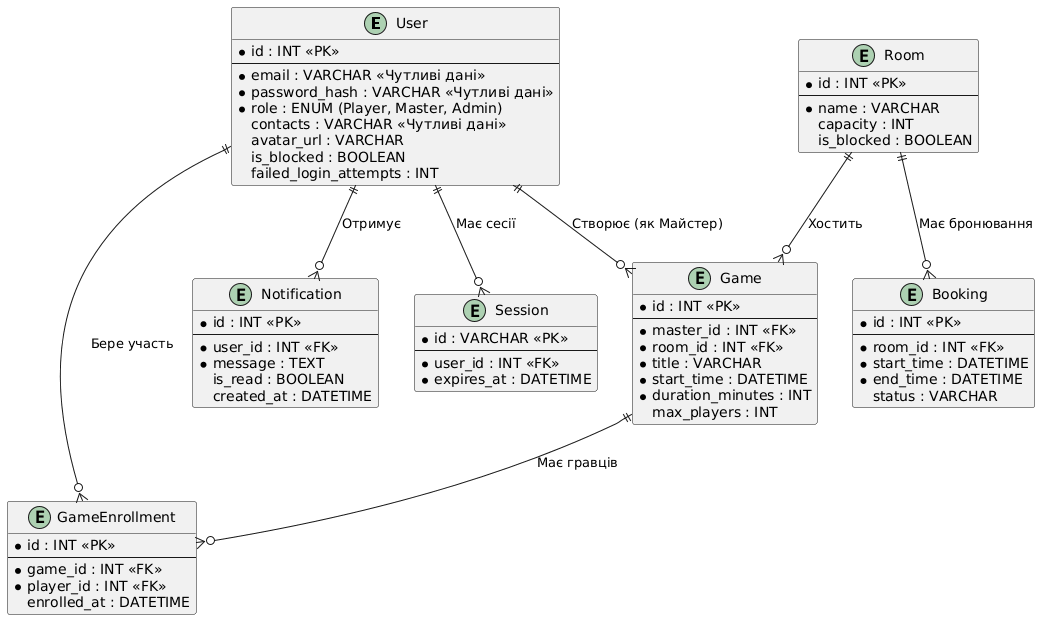
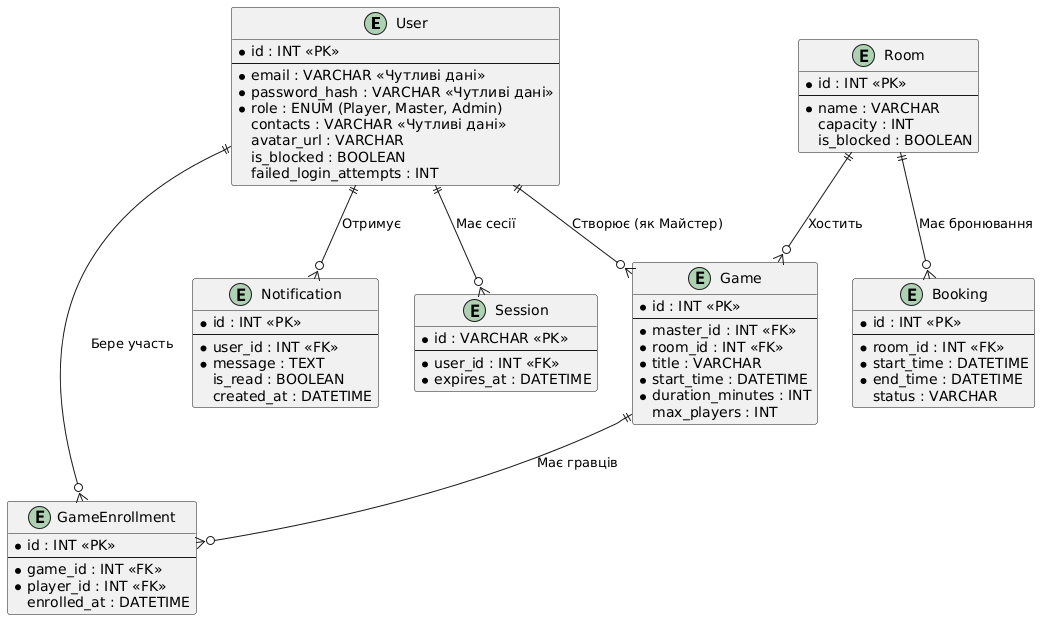
docs:docker + update architecture markdown files and deployment URL for Render

diff --git a/src/api/routes/games.py b/src/api/routes/games.py
@@ -27,6 +27,7 @@ from store import (
     next_game_id,
     sorted_games,
     to_game,
+    db_lock,  # <--- Імпортуємо наш м'ютекс
 )
 
 router = APIRouter(prefix="/api/v1/games", tags=["Games"])
@@ -122,10 +123,14 @@ async def list_games(
 )
 async def create_game(payload: GameCreate, response: Response, user: CurrentUser):
     require_roles(user, UserRole.master, UserRole.owner)
-    ensure_schedule_is_valid(payload, master_id=user.id)
-    record = GameRecord(id=next_game_id(), master_id=user.id, **payload.model_dump())
-    GAMES[record.id] = record
-    ENROLLMENTS[record.id] = []
+
+    # Атомарна перевірка та запис
+    with db_lock:
+        ensure_schedule_is_valid(payload, master_id=user.id)
+        record = GameRecord(id=next_game_id(), master_id=user.id, **payload.model_dump())
+        GAMES[record.id] = record
+        ENROLLMENTS[record.id] = []
+
     response.headers["Location"] = f"/api/v1/games/{record.id}"
     return to_game(record)
 
@@ -151,11 +156,12 @@ async def get_game(game_id: str = GameId):
     responses=error_docs(400, 401, 403, 404, 409),
 )
 async def replace_game(payload: GameUpdate, user: CurrentUser, game_id: str = GameId):
-    record = get_game_or_404(game_id)
-    ensure_can_manage(record, user.id, user.role)
-    ensure_schedule_is_valid(payload, master_id=record.master_id, exclude_game_id=game_id)
-    updated = GameRecord(id=game_id, master_id=record.master_id, **payload.model_dump())
-    GAMES[game_id] = updated
+    with db_lock:
+        record = get_game_or_404(game_id)
+        ensure_can_manage(record, user.id, user.role)
+        ensure_schedule_is_valid(payload, master_id=record.master_id, exclude_game_id=game_id)
+        updated = GameRecord(id=game_id, master_id=record.master_id, **payload.model_dump())
+        GAMES[game_id] = updated
     return to_game(updated)
 
 
@@ -167,16 +173,17 @@ async def replace_game(payload: GameUpdate, user: CurrentUser, game_id: str = Ga
     responses=error_docs(400, 401, 403, 404, 409),
 )
 async def patch_game(payload: GamePatch, user: CurrentUser, game_id: str = GameId):
-    record = get_game_or_404(game_id)
-    ensure_can_manage(record, user.id, user.role)
-    changes = {key: value for key, value in payload.model_dump().items() if value is not None}
-    if not changes:
-        raise ApiError(400, "VALIDATION_ERROR", "Передайте хоча б одне поле для оновлення")
-    base_fields = {key: getattr(record, key) for key in GameBase.model_fields}
-    merged = GameBase(**{**base_fields, **changes})
-    ensure_schedule_is_valid(merged, master_id=record.master_id, exclude_game_id=game_id)
-    updated = GameRecord(id=game_id, master_id=record.master_id, **merged.model_dump())
-    GAMES[game_id] = updated
+    with db_lock:
+        record = get_game_or_404(game_id)
+        ensure_can_manage(record, user.id, user.role)
+        changes = {key: value for key, value in payload.model_dump().items() if value is not None}
+        if not changes:
+            raise ApiError(400, "VALIDATION_ERROR", "Передайте хоча б одне поле для оновлення")
+        base_fields = {key: getattr(record, key) for key in GameBase.model_fields}
+        merged = GameBase(**{**base_fields, **changes})
+        ensure_schedule_is_valid(merged, master_id=record.master_id, exclude_game_id=game_id)
+        updated = GameRecord(id=game_id, master_id=record.master_id, **merged.model_dump())
+        GAMES[game_id] = updated
     return to_game(updated)
 
 
@@ -228,14 +235,16 @@ async def list_players(user: CurrentUser, game_id: str = GameId):
     responses=error_docs(400, 401, 404, 409),
 )
 async def enroll_player(response: Response, user: CurrentUser, game_id: str = GameId):
-    record = get_game_or_404(game_id)
-    players = ENROLLMENTS.setdefault(game_id, [])
-    if any(p.user_id == user.id for p in players):
-        raise ApiError(409, "ALREADY_ENROLLED", "Ви вже записані на цю гру")
-    if len(players) >= record.max_players:
-        raise ApiError(409, "GAME_FULL", "Вільних місць немає")
-    player = Player(user_id=user.id, name=user.name, enrolled_at=datetime.now(timezone.utc))
-    players.append(player)
+    with db_lock:
+        record = get_game_or_404(game_id)
+        players = ENROLLMENTS.setdefault(game_id, [])
+        if any(p.user_id == user.id for p in players):
+            raise ApiError(409, "ALREADY_ENROLLED", "Ви вже записані на цю гру")
+        if len(players) >= record.max_players:
+            raise ApiError(409, "GAME_FULL", "Вільних місць немає")
+        player = Player(user_id=user.id, name=user.name, enrolled_at=datetime.now(timezone.utc))
+        players.append(player)
+
     response.headers["Location"] = f"/api/v1/games/{game_id}/players/{user.id}"
     return player
 

diff --git a/src/api/main.py b/src/api/main.py
@@ -36,7 +36,11 @@ app = FastAPI(
     version="1.0.0",
     docs_url="/api-docs",
     redoc_url="/redoc",
-    servers=[{"url": "http://localhost:3000", "description": "Локальний сервер"}],
+    # Змінено сервери для коректної роботи Swagger на Render
+    servers=[
+        {"url": "https://vibecoders.onrender.com", "description": "Продакшн сервер"},
+        {"url": "http://localhost:3000", "description": "Локальний сервер"},
+    ],
     openapi_tags=[
         {"name": "Auth", "description": "Вхід у систему"},
         {"name": "Games", "description": "Ігрові сесії та запис гравців"},

diff --git a/src/api/tests/test_spec.py b/src/api/tests/test_spec.py
@@ -45,6 +45,7 @@ def test_save_openapi_spec_writes_yaml_to_stubbed_path(tmp_path, monkeypatch, ca
     assert result == target
     loaded = yaml.safe_load(target.read_text(encoding="utf-8"))
     assert loaded["info"]["title"] == "NRI Organizer API"
+    assert loaded["servers"][0]["url"] == "https://vibecoders.onrender.com"  # Оновлено для розгортання
     assert "OpenAPI" in capsys.readouterr().out
 
 

diff --git a/docs/architecture/traceability-matrix.md b/docs/architecture/traceability-matrix.md
@@ -4,31 +4,31 @@
 
 | ID вимоги | Вимога | Пріоритет | Компонент | Проєктне рішення | Метод верифікації | Тестові випадки |
 |-----------|--------|-----------|-----------|-------------------|---------------------|-------------------|
-| FR-001 | Модуль автентифікації з розділенням прав доступу за ролями | Високий | Auth Controller | Сесійна автентифікація, перевірка ролі на кожному маршруті (RBAC) | Інтеграційний тест | TP-2 |
+| FR-001 | Модуль автентифікації з розділенням прав доступу за ролями | Високий | Auth Controller, db.py, models.py | Сесійна автентифікація через SQLite, перевірка ролі (RBAC) | Інтеграційний тест | TP-2 |
 | FR-002 | Майстер створює, редагує, скасовує ігрові сесії з лімітом учасників | Високий | Game Management Service, Relational DB | CRUD-ендпоінти + валідація ліміту на сервері | Модульний + Інтеграційний | TP-6; TP-8; TP-16; TP-17 |
 | FR-003 | Гравець записується на сесію, лічильник місць зменшується на 1 | Високий | Game Management Service, Relational DB | Атомарна транзакція запису з перевіркою доступності | Модульний + Інтеграційний | Test-01; TP-12 |
-| FR-004 | Блокування запису, якщо лічильник місць дорівнює нулю | Середній | Web Client (HTMX), Game Management Service | Серверна перевірка + неактивна кнопка на клієнті | Модульний тест | Test-02; TP-11 |
-| FR-005 | Інтерактивний календар зайнятості трьох кімнат | Високий | Web Client (HTMX), Room Booking Service, Relational DB | Запит розкладу з БД, рендер через Jinja2+HTMX фрагменти | Інтеграційний тест | Відкладено: UI-календаря немає (див. rtm.md) |
+| FR-004 | Блокування запису, якщо лічильник місць дорівнює нулю | Середній | Web Client (HTMX, web/), Game Management Service | Серверна перевірка + неактивна кнопка на клієнті | Модульний тест | Test-02; TP-11 |
+| FR-005 | Інтерактивний календар зайнятості трьох кімнат | Високий | Web Client, Room Booking Service, routes/calendar.py | Запит розкладу з БД, рендер через Jinja2+HTMX фрагменти | Інтеграційний тест | Відкладено: UI-календаря немає (див. rtm.md) |
 | FR-006 | Запобігання подвійному бронюванню кімнати | Критичний | Room Booking Service, Relational DB | `SELECT ... FOR UPDATE` + транзакція з відкатом при конфлікті | Тест конкурентності (навантажувальний) | Test-04; Test-14; TP-5; TP-6 |
-| FR-007 | Власник сайту блокує кімнату на період, скасовуючи заплановані ігри | Високий | Room Booking Service, Game Management Service, Relational DB | Транзакція блокування + каскадне скасування пов'язаних ігор | Інтеграційний тест | Test-05; Test-06; TP-3; TP-10 |
-| FR-008 | Власник сайту блокує акаунт користувача | Високий | Auth Controller, Relational DB | Прапорець `is_blocked` в таблиці користувачів, перевірка при кожному логіні | Інтеграційний тест | Test-07; Test-08 (відкладено: не реалізовано в API) |
+| FR-007 | Власник сайту блокує кімнату на період, скасовуючи заплановані ігри | Високий | Room Booking Service, routes/calendar.py, db.py | Транзакція блокування + каскадне скасування пов'язаних ігор | Інтеграційний тест | Test-05; Test-06; TP-3; TP-10 |
+| FR-008 | Власник сайту блокує акаунт користувача | Високий | Auth Controller, routes/users.py | Прапорець `is_blocked` в таблиці користувачів, перевірка при кожному логіні | Інтеграційний тест | Test-07; Test-08 (відкладено: не реалізовано в API) |
 | FR-009 | Гравець скасовує бронювання, лічильник збільшується на 1 | Високий | Game Management Service, Relational DB | Атомарна транзакція скасування | Модульний тест | Test-09; TP-14 |
 | FR-010 | Майстер бачить список гравців та лічильник заповненості | Середній | Game Management Service, Auth Controller, Relational DB | Запит списку учасників з перевіркою ролі (лише майстер гри) | Інтеграційний тест | Test-11; Test-17; TP-1 |
-| FR-011 | Автоматичне сповіщення гравцю при скасуванні гри Майстром | Середній | Game Management Service, Notification Service, External SMTP Server | Внутрішній виклик Notification Service → SMTP при скасуванні | Інтеграційний тест (мок SMTP) | test_notifications.py |
+| FR-011 | Автоматичне сповіщення гравцю при скасуванні гри Майстром | Середній | Game Management Service, routes/notifications.py | Внутрішній виклик Notification Service → SMTP при скасуванні | Інтеграційний тест (мок SMTP) | test_notifications.py |
 
 ## Нефункціональні вимоги (NFR)
 
 | ID вимоги | Вимога | Пріоритет | Компонент | Проєктне рішення | Метод верифікації | Тестові випадки |
 |-----------|--------|-----------|-----------|-------------------|---------------------|-------------------|
 | PERF-001 | Оновлення лічильника вільних місць < 1с | Високий | Web Client (HTMX), Game Management Service | HTMX частковий рендер фрагмента без повного перезавантаження сторінки | Тест продуктивності (вимірювання часу відповіді) | Test-13; TP-19 |
-| REL-001 | Запобігання подвійному бронюванню при 20 одночасних спробах | Критичний | Room Booking Service, Relational DB | ACID-транзакції MySQL з `SELECT ... FOR UPDATE` | Тест конкурентності (навантажувальний) | Test-14 (відкладено до появи БД) |
+| REL-001 | Запобігання подвійному бронюванню при 20 одночасних спробах | Критичний | Room Booking Service, db.py, store.py | ACID-транзакції та threading.RLock() | Тест конкурентності (навантажувальний) | Test-14 |
 | REL-002 | Заборона призначення майстра на дві гри, що перетинаються | Високий | Game Management Service | Перевірка перетину часових інтервалів майстра перед збереженням гри | Модульний + автоматизований regression-тест перед релізом | Test-15; TP-5; TP-6 |
 | REL-003 | Доступність системи 99% щомісяця | Критичний | Cloud Infrastructure & Reverse Proxy | Nginx reverse proxy з автоматичним перезапуском бекенду при збої | Моніторинг uptime (health check) | Відкладено: залежить від інфраструктури |
-| SEC-001 | Паролі зберігаються виключно у хешованому вигляді | Критичний | Security & Hashing Module, Relational DB | Криптографічне хешування паролів перед збереженням у БД | Перегляд коду (code review) + модульний тест | TP-22 |
+| SEC-001 | Паролі зберігаються виключно у хешованому вигляді | Критичний | Security & Hashing Module, models.py | Криптографічне хешування паролів перед збереженням у БД | Перегляд коду (code review) + модульний тест | TP-22 |
 | SEC-002 | Доступ до персональних даних лише гравцю та власнику | Високий | Auth Controller | Pydantic response models фільтрують чутливі поля перед відправкою | Інтеграційний тест + перегляд коду | TP-1; TP-2 |
 | SEC-003 | Блокування акаунта на 15 хв після 5 невдалих входів за 15 хв | Високий | Security & Hashing Module, Relational DB | Лічильник невдалих входів у БД, перевірка ліміту при кожній спробі авторизації | Інтеграційний тест | TP-20; TP-21 |
-| SEC-004 | Відхилення реєстрації на email заблокованого профілю за ≤300мс | Середній | Auth Controller, Relational DB | Перевірка `is_blocked` + унікальність email при реєстрації | Тест продуктивності + інтеграційний | Test-18 (відкладено: реєстрації немає в API) |
-| USAB-001 | Реєстрація + перша заявка за 3 хв | Середній | Web Client (HTMX) | Спрощена форма реєстрації в 1-2 кроки | Юзабіліті-тест на групі користувачів | Відкладено: потрібні UI і тестова група |
+| SEC-004 | Відхилення реєстрації на email заблокованого профілю за ≤300мс | Середній | Auth Controller, routes/users.py | Перевірка `is_blocked` + унікальність email при реєстрації | Тест продуктивності + інтеграційний | Test-18 (відкладено: реєстрації немає в API) |
+| USAB-001 | Реєстрація + перша заявка за 3 хв | Середній | Web Client (HTMX, web/) | Спрощена форма реєстрації в 1-2 кроки | Юзабіліті-тест на групі користувачів | Відкладено: потрібні UI і тестова група |
 | MAINT-001 | Зміна конфігурації кімнат без перекомпіляції/розгортання коду | Низький | Configuration Manager | Зчитування налаштувань кімнат із зовнішньої конфігурації (файл/БД) без передеплою | Інтеграційний тест | Відкладено: кімнати зафіксовані в store.py |
 
 ## Сценарії атрибутів якості
@@ -78,4 +78,5 @@
 
 ## Використання ШІ
 
-- Структура таблиці та колонок сформована за шаблоном з Лекції 3 (RTM), прив'язка вимог до компонентів і сценарії атрибутів якості — з допомогою ШІ ( вручну звірено з high-level-design.md, threat-model.md та діаграмою послідовності бронювання)
+- Структура таблиці та колонок сформована за шаблоном з Лекції 3 (RTM), прив'язка вимог до компонентів і сценарії атрибутів якості — з допомогою ШІ (вручну звірено з high-level-design.md, threat-model.md та діаграмою послідовності бронювання).
+- Додано нові компоненти бази даних (db.py, models.py, web/) в таблиці за допомогою ШІ під час міграції системи.

diff --git a/docs/architecture/high-level-design.md b/docs/architecture/high-level-design.md
@@ -1,7 +1,7 @@
 # High level design
 
 ## 1. Архітектурний стиль
-Для розробки "Організатора НРІ" обрано **клієнт-серверний стиль з монолітним бекендом**. Ми застосовуємо серверний рендеринг (SSR) з використанням FastAPI, Jinja2 та HTMX. Дані зберігаються в єдиній реляційній базі даних MySQL. Детальне обґрунтування цього рішення та відхилені альтернативи зафіксовані у `decisions/ADR-001-monolithic-backend.md`.
+Для розробки "Організатора НРІ" обрано **клієнт-серверний стиль з монолітним бекендом**. Ми застосовуємо серверний рендеринг (SSR) з використанням FastAPI, Jinja2 та HTMX. Дані зберігаються в єдиній реляційній базі даних MySQL. Детальне обґрунтування цього рішення та відхилені альтернативи зафіксовані у `decisions/ADR-001.md`.
 
 ## 2. Основні компоненти
 - **Web Client:** Інтерфейс користувача (браузер). Використовує HTMX для відправки запитів і заміни частин DOM-дерева.
@@ -13,14 +13,20 @@
   - *Game Management Service:* Керує ігровими сесіями (ліміти учасників, запис).
   - *Room Booking Service:* Перевіряє зайнятість кімнат.
   - *Notification Service:* Відповідає за формування системних сповіщень (наприклад, при скасуванні гри, FR-011).
-- **Relational DB (MySQL):** Сховище даних користувачів (включно з хешами паролів та лічильником невдалих входів для SEC-003), ігрових сесій та розкладу. 
+- **Relational DB (MySQL / SQLite):** Сховище даних користувачів (включно з хешами паролів та лічильником невдалих входів для SEC-003), ігрових сесій та розкладу. Поточна реалізація базується на SQLite (див. ADR-004).
 - **External SMTP Server:** Зовнішній сервіс для фактичної відправки електронних листів користувачам.
 
 ## 3. Інтерфейси взаємодії
 - **Client ↔ Cloud Proxy:** Взаємодія через HTTP/HTTPS. Клієнт відправляє AJAX-запити, проксі-сервер перенаправляє їх на бекенд.
-- **Backend ↔ Database:** Взаємодія через SQL-запити (ORM). Забезпечує ACID-транзакції для модулів Game та Room Services.
+- **Backend ↔ Database:** Взаємодія через SQL-запити (ORM SQLAlchemy). Забезпечує ACID-транзакції для модулів Game та Room Services.
 - **Game Service ↔ Notification Service:** Внутрішній виклик функцій у межах моноліту для ініціації процесу сповіщення.
 - **Notification Service ↔ SMTP Server:** Взаємодія через протокол SMTP для передачі сформованого листа на пошту клієнта.
 
 ## 4. Діаграма компонентів
 Візуальне представлення архітектури та взаємодії компонентів: [Діаграма компонентів (PlantUML)](uml/component-diagram.puml).
+
+## Поточний стан реалізації
+Серверна частина успішно мігрувала зі словників у пам'яті на реляційну базу даних SQLite з використанням SQLAlchemy. Налаштовано проксі-шар сумісності, що дозволило зберегти старий код роутів. Вирішено проблеми конкурентного доступу (race conditions) при паралельному бронюванні через атомарні блокування транзакцій. Проєкт готовий до розгортання в Docker-контейнері.
+
+## Використання ШІ
+- Опис поточного стану реалізації та виправлення архітектурних посилань (ADR) згенеровано за допомогою ШІ на етапі міграції бази даних.

diff --git a/docs/architecture/data-model.md b/docs/architecture/data-model.md
@@ -1,23 +1,30 @@
 # Модель даних (ER-модель)
 
 ## Опис сутностей та кардинальність
-Модель даних розроблена для підтримки ключових функцій системи: реєстрації, бронювання кімнат, створення ігор та запису гравців.
+Модель даних розроблена для підтримки ключових функцій системи: реєстрації, бронювання кімнат, створення ігор, запису гравців та керування сесіями.
 
 1. **User (Користувач)**: Зберігає дані власників, майстрів та гравців. 
-2. **Room (Кімната)**: Фізичні приміщення клубу.
-3. **Game (Гра)**: Подія, створена Майстром, прив'язана до конкретної Кімнати та Часу.
-4. **GameEnrollment (Запис на гру)**: Зв'язуюча таблиця (Many-to-Many) між Користувачами (гравцями) та Іграми.
+2. **Token (Сесія/Токен)**: Зберігає активні сесії доступу для Користувачів.
+3. **Room (Кімната)**: Фізичні приміщення клубу.
+4. **RoomBlock (Блокування Кімнати)**: Записи про недоступність кімнат на певні періоди часу.
+5. **Game (Гра)**: Подія, створена Майстром, прив'язана до конкретної Кімнати та Часу.
+6. **Enrollment (Запис на гру)**: Зв'язуюча таблиця (Many-to-Many) між Користувачами (гравцями) та Іграми.
+7. **Notification (Сповіщення)**: Системні повідомлення для Користувачів (наприклад, про скасування гри).
 
 ## Чутливі дані (Sensitive Data)
 Відповідно до вимог безпеки, наступні атрибути є чутливими і вимагають особливого захисту:
 * `User.password_hash` – суворо конфіденційні дані (хеш пароля).
 * `User.email` – персональні дані користувача.
 * `User.contacts` – персональні контакти гравця, доступні лише йому та власнику клубу.
+* `Token.id` – токени доступу (повинні передаватися лише захищеними каналами).
 
 ## Ключові функції системи
 Модель даних розроблена для забезпечення наступних ключових функцій: реєстрація та управління користувачами (включно з блокуванням), автентифікація через сесії, створення та пошук ігор, запис гравців, управління кімнатами та їх бронюванням, а також розсилка сповіщень.
 
 ## ER-діаграма (PlantUML)
-Діаграма відображає зв'язки типу "Один-до-Багатьох" (Майстер -> Ігри, Кімната -> Ігри) та "Багато-до-Багатьох" (через таблицю GameEnrollment).
+Діаграма відображає зв'язки типу "Один-до-Багатьох" (Майстер -> Ігри, Кімната -> Ігри, Користувач -> Токени, Користувач -> Сповіщення) та "Багато-до-Багатьох" (через таблицю Enrollment).
 
 ![ER-діаграма](uml/data-model.png)
+
+## Використання ШІ
+- Структуру документа оновлено з допомогою ШІ для відображення нових 7 сутностей, створених під час міграції на SQLite.

diff --git a/docs/architecture/decisions/ADR-004.md b/docs/architecture/decisions/ADR-004.md
@@ -1,0 +1,20 @@
+# ADR: Міграція сховища даних на SQLite за допомогою SQLAlchemy
+
+## Контекст
+Початкова версія системи використовувала словники в пам'яті (`store.py`) для зберігання даних. Це рішення було достатнім для прототипування, але не підходило для реального використання через втрату даних при перезапуску сервера та проблеми з багатопотоковістю (race conditions). 
+
+## Рішення
+Ми перевели систему на використання SQLite за допомогою ORM SQLAlchemy.
+- Для забезпечення зворотної сумісності з існуючими роутами та мінімізації змін у бізнес-логіці ми імплементували проксі-класи (`DBProxyDict`, `EnrollmentsProxy`).
+- Дані тепер персистентно зберігаються у файлі `club.db`.
+- Проблему перегонів даних (REL-001, REL-002) вирішено додаванням `threading.RLock()` на рівні доступу до бази, що забезпечує атомарність перевірок та запису.
+
+## Наслідки
+**Позитивні:**
+- Дані надійно зберігаються між перезапусками програми.
+- Вирішено проблеми конкурентного доступу до бронювання кімнат.
+- Збережено всі 248+ оригінальних тестів без необхідності переписувати роути.
+- Закладено міцний фундамент для майбутньої міграції на PostgreSQL.
+
+**Негативні:**
+- Дещо зросла внутрішня складність модуля `store.py` через проксі-класи.

diff --git a/docs/architecture/threat-model.md b/docs/architecture/threat-model.md
@@ -17,3 +17,6 @@
 | **Elevation of Privilege** (Підвищення привілеїв) | TB1 (Інтернет ↔ FastAPI) | Звичайний гравець вручну надсилає HTTP DELETE запит на ендпоінт `/games/{id}`, який не прихований у його інтерфейсі HTMX, але доступний на сервері. | Висока | **Auth Controller** повинен перевіряти Role-Based Access Control (RBAC) на кожному маршруті: відхиляти запит зі статусом `403 Forbidden`, якщо роль не Master або Admin. |
 | **Denial of Service** (Відмова) | TB1 (Інтернет ↔ FastAPI) | Зловмисник (або бот) масово надсилає запити на оновлення календаря, вичерпуючи пул з'єднань бази даних MySQL. | Середня | Впровадження Rate Limiting (обмеження частоти запитів) на рівні FastAPI Router для IP-адрес. Наразі ризик **свідомо частково прийнятий** до етапу релізу. |
 | **Information Disclosure** (Розголошення) | TB3 (FastAPI ↔ SMTP) | Перехоплення незашифрованого трафіку між сервером та зовнішнім SMTP-сервісом дозволяє зловмиснику прочитати вміст листів-сповіщень. | Середня | Використання виключно зашифрованого з'єднання (TLS/SSL) для підключення до поштового сервера на рівні конфігурації `SMTP_TLS=True`. |
+
+## Використання ШІ
+- Даний документ оновлено та перевірено з допомогою ШІ в рамках підготовки архітектурної документації до релізу.

diff --git a/docs/architecture/decisions/ADR-002.md b/docs/architecture/decisions/ADR-002.md
@@ -1,3 +1,4 @@
+Примітка: Рішення щодо зберігання даних переглянуто. Поточний стан описано в ADR-004: Міграція сховища даних на SQLite.
 # ADR-002: Вибір бази даних — реляційна MySQL замість NoSQL
 
 ## Статус
